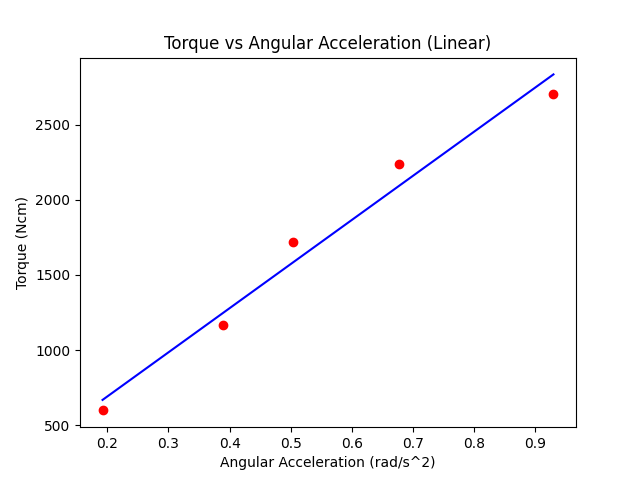
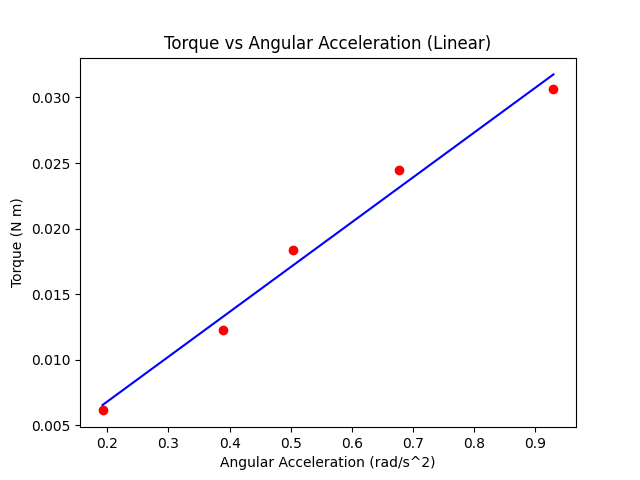
graphs for lab final I think!

diff --git a/main.py b/main.py
@@ -5,15 +5,16 @@ from scipy.stats import linregress
 # Import polyfit
 from scipy.optimize import curve_fit
 
-wheel_radius_cm = 5.1/2
-radius_axle_cm = 2.500/2
+wheel_radius_cm = 5.1/2 / 100
+radius_axle_cm = 2.500/2 / 100
 gravity = 9.81
+round_places = 8
 
 # Starting from index 2 (3rd run) (Ignoring Experiment 1)
-masses_pully = [50, 100, 150, 200, 250, 
-                50, 100, 150, 200, 250, 
-                50, 100, 150, 200, 250,
-                50, 100, 150, 200, 250,]
+masses_pully = [0.050, 0.100, 0.150, 0.200, 0.250, 
+                0.050, 0.100, 0.150, 0.200, 0.250, 
+                0.050, 0.100, 0.150, 0.200, 0.250,
+                0.050, 0.100, 0.150, 0.200, 0.250,]
 
 def plot_torque_vs_angular_acceleration():
     # Data Frame
@@ -43,9 +44,9 @@ def plot_torque_vs_angular_acceleration():
         y = slope * x + intercept
         plt.plot(x, y, 'b')
         # Print equation of line
-        print('y = ' + str(round(slope, 3)) + 'x + ' + str(round(intercept, 3)), 'r^2 = ' + str(round(r_value**2, 3)))
+        print('y = ' + str(round(slope, round_places)) + 'x + ' + str(round(intercept, round_places)), 'r^2 = ' + str(round(r_value**2, round_places)))
         plt.xlabel('Angular Acceleration (rad/s^2)')
-        plt.ylabel('Torque (Ncm)')
+        plt.ylabel('Torque (N m)')
         plt.title('Torque vs Angular Acceleration (Linear)')
         plt.savefig(f'data/experiment_{int(i/5+2)}_torque_vs_angular_acceleration_linear.png')
         # Delete pyplot
@@ -63,9 +64,9 @@ def plot_torque_vs_angular_acceleration():
         # Calculate r^2 value of polyfit
         r_value = np.corrcoef(xp, p(xp))[0,1]
         # Print equation of line
-        print('y = ' + str(round(coeffs[0], 3)) + 'x^2 + ' + str(round(coeffs[1], 3)) + 'x + ' + str(round(coeffs[2], 3)), 'r^2 = ' + str(round(r_value**2, 3)))
+        print('y = ' + str(round(coeffs[0], round_places)) + 'x^2 + ' + str(round(coeffs[1], round_places)) + 'x + ' + str(round(coeffs[2], round_places)), 'r^2 = ' + str(round(r_value**2, round_places)))
         plt.xlabel('Angular Acceleration (rad/s^2)')
-        plt.ylabel('Torque (Ncm)')
+        plt.ylabel('Torque (N m)')
         plt.title('Torque vs Angular Acceleration (Polynomial)')
         plt.savefig(f'data/experiment_{int(i/5+2)}_torque_vs_angular_acceleration_polynomial.png')
         # Delete pyplot
@@ -77,6 +78,7 @@ def get_torque_list(tension_forces):
     torque_list = []
     for tension_force in tension_forces:
         torque_list.append(tension_force * radius_axle_cm)
+    print(f"torque list: {torque_list}")
     return torque_list
 
     # Torque = rFsin(θ) (sin(θ) = 1)))
